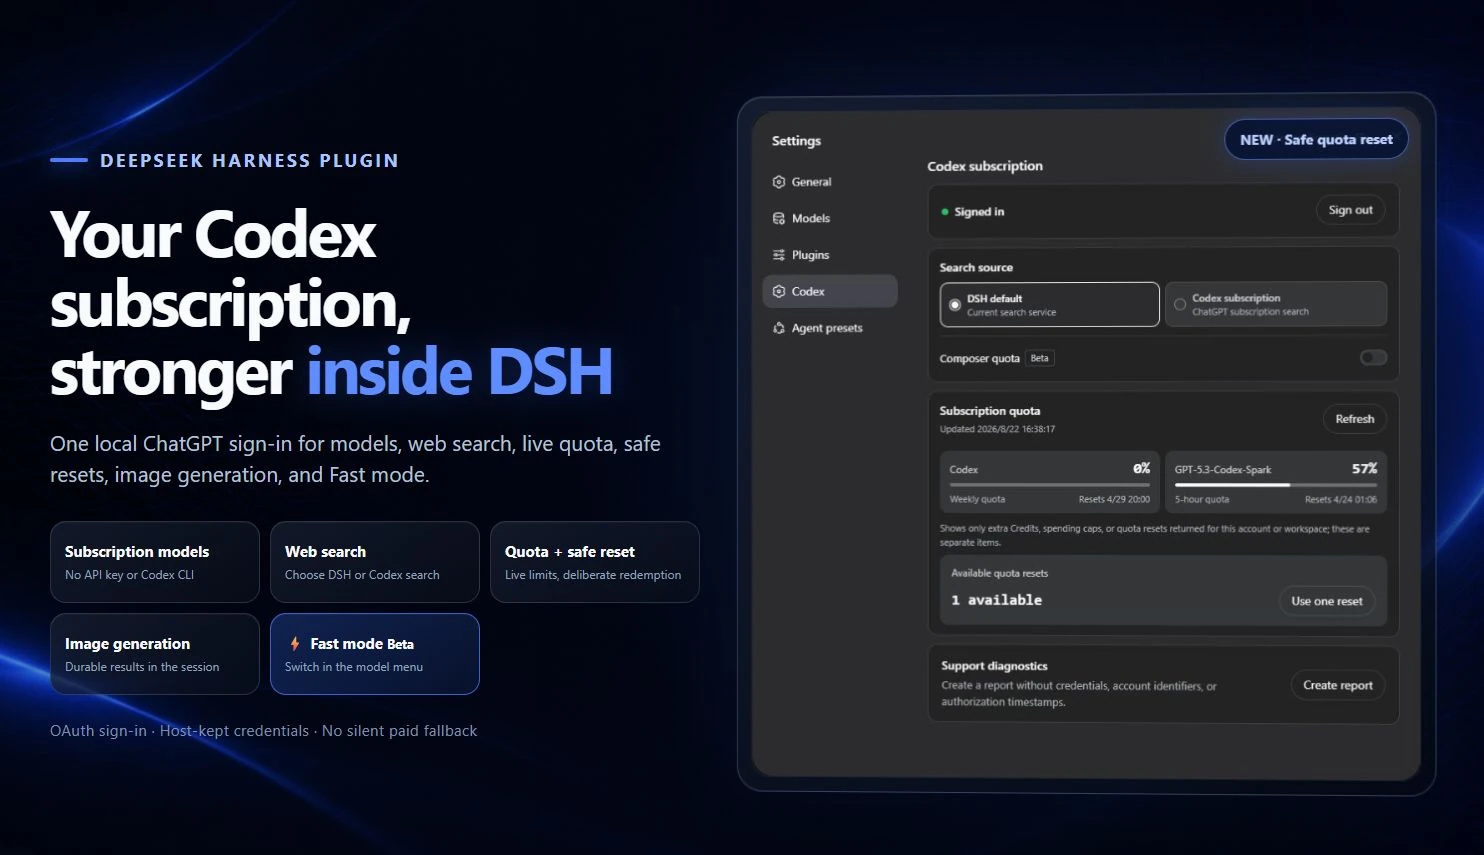
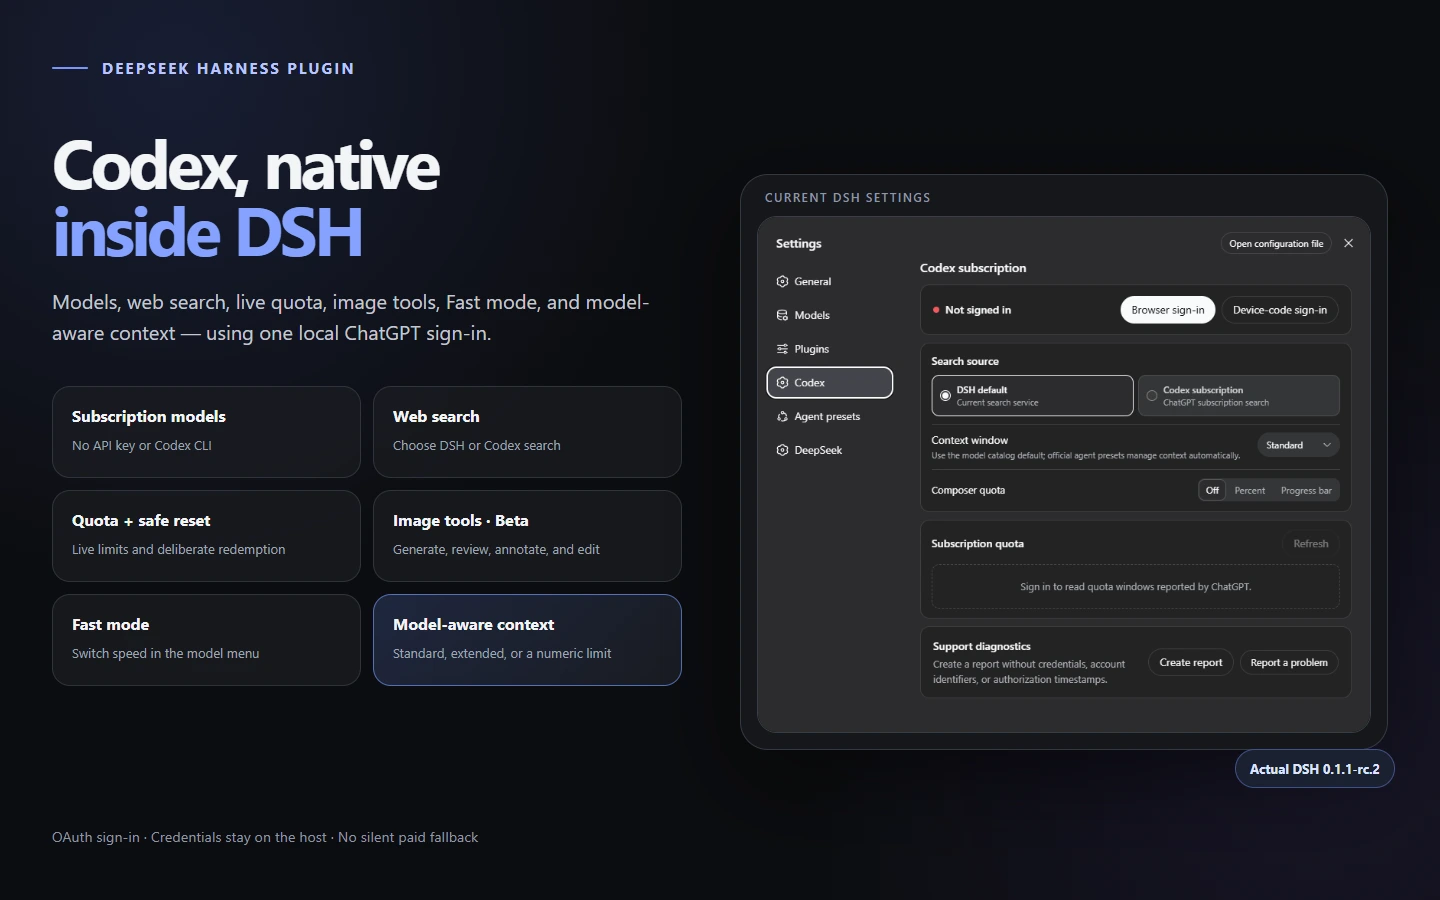
docs: refresh current Codex product visuals

diff --git a/README.md b/README.md
@@ -58,15 +58,10 @@ These capabilities reuse the same local ChatGPT sign-in. Subscription routing fa
 ## Product screen
 
 <p align="center">
-  <img src="https://raw.githubusercontent.com/WSL043/dsh-codex-subscription/main/docs/assets/settings-focus-en.png" width="820" alt="Codex subscription settings in DeepSeek Harness">
+  <img src="https://raw.githubusercontent.com/WSL043/dsh-codex-subscription/main/docs/assets/context-settings-en.png" width="820" alt="Current Codex subscription settings in DeepSeek Harness with search, model-aware context, composer quota, and support diagnostics">
 </p>
 
-<details>
-<summary>View the complete settings screen</summary>
-
-![Complete Codex subscription settings in DeepSeek Harness](https://raw.githubusercontent.com/WSL043/dsh-codex-subscription/main/docs/assets/settings-en.png)
-
-</details>
+Captured from the installed official DeepSeek Harness `0.1.1-rc.2` product with the current plugin build.
 
 ## Prepare DSH
 
